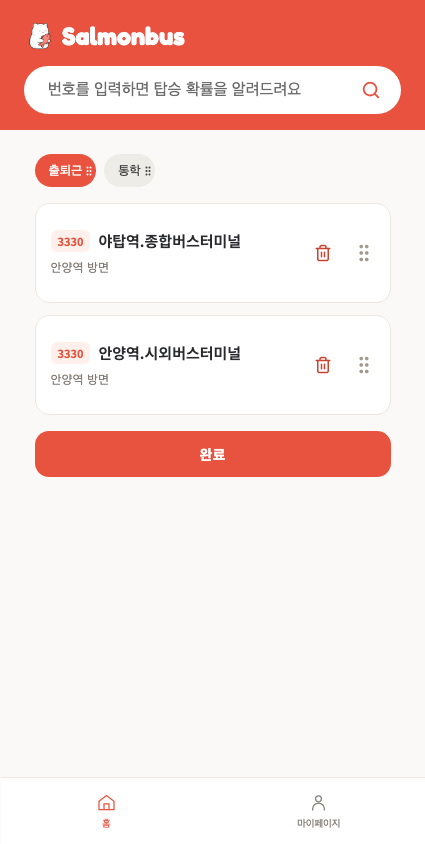
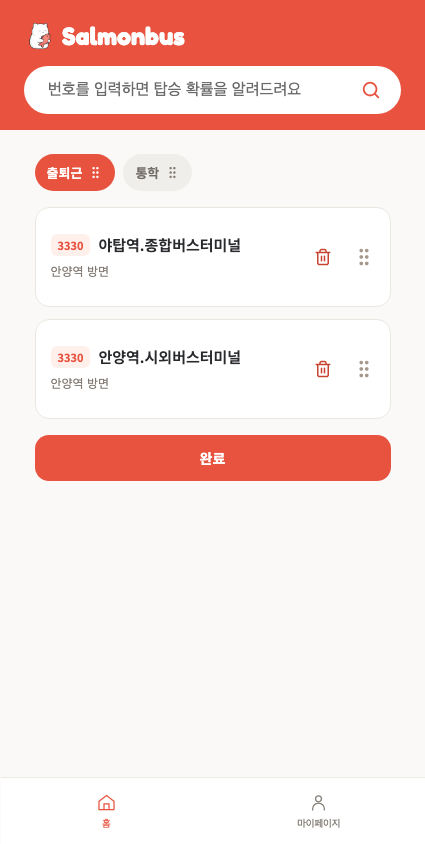
fix(SAL-249): 그룹 편집 탭을 SRksD 시안 크기로 정리

diff --git a/frontend/e2e/favorite-editor.spec.ts b/frontend/e2e/favorite-editor.spec.ts
@@ -294,6 +294,8 @@ for (const width of [320, 425]) {
       const button = editor.getByRole("button", { name: tab.name, exact: true });
       const group = button.locator("..");
       const box = (await group.boundingBox())!;
+      expect(box.height).toBe(37);
+      expect(box.width).toBeCloseTo(tab.name === "출퇴근" ? 81 : 69, 0);
       for (const key of ["x", "y", "width", "height"] as const) expect(box[key]).toBeCloseTo(tab[key], 1);
       await expect(group).toHaveCSS("background-color", tab.background);
       const handle = group.getByRole("button", { name: `${tab.name} 순서 변경`, exact: true });
@@ -303,7 +305,9 @@ for (const width of [320, 425]) {
         range.selectNodeContents(element);
         return range.getBoundingClientRect().right;
       });
-      expect(grip.x - textRight).toBeGreaterThanOrEqual(3.9);
+      expect(grip.x - textRight).toBeCloseTo(6, 1);
+      expect(grip.width).toBe(15);
+      expect(box.x + box.width - grip.x - grip.width).toBeCloseTo(12, 1);
       expect(grip.x).toBeGreaterThan(box.x + box.width / 2);
       expect(grip.x + grip.width).toBeLessThanOrEqual(box.x + box.width);
     }
@@ -317,5 +321,6 @@ for (const width of [320, 425]) {
     await expect(card).toHaveCSS("outline", surface.outline);
     await expect(card).toHaveCSS("outline-offset", surface.offset);
     await expect(card).toHaveCSS("background-color", surface.background);
+    if (width === 425) await page.screenshot({ path: `/private/tmp/salmonbus-srksd-${test.info().project.name}.png` });
   });
 }

diff --git a/frontend/src/shared/components/favorite-editor/SortableList.css.ts b/frontend/src/shared/components/favorite-editor/SortableList.css.ts
@@ -5,7 +5,7 @@ import { outlinedCard } from "@/shared/styles/surface.css";
 import { vars } from "@/shared/styles/tokens.css";
 
 const list = style({ display: "flex", gap: 12, margin: 0, padding: 0, listStyle: "none" });
-export const groups = style([list, { gap: 8, minHeight: 32, alignItems: "center" }]);
+export const groups = style([list, { gap: 8, minHeight: 37, alignItems: "center" }]);
 export const cards = style([list, { flexDirection: "column" }]);
 const item = style({
   position: "relative",
@@ -20,9 +20,10 @@ export const group = style([
   {
     display: "flex",
     alignItems: "center",
-    padding: 0,
+    padding: "0 12px",
+    gap: 6,
     selectors: {
-      '&:has([aria-pressed="true"])': { background: vars.color.brand, color: "white" },
+      '&:has([aria-pressed="true"])': { background: vars.color.liveBus, color: "white" },
     },
   },
 ]);
@@ -65,13 +66,13 @@ export const grip = style({
 export const groupGrip = style([
   grip,
   {
-    position: "absolute",
-    right: 0,
-    top: 0,
-    width: 14,
-    height: "100%",
-    color: "inherit",
-    selectors: { "&::before": { width: 12, height: 12 } },
+    width: 15,
+    height: 37,
+    color: "#837B74",
+    selectors: {
+      "&::before": { width: 15, height: 15 },
+      '[aria-pressed="true"] + &': { color: "white" },
+    },
   },
 ]);
 globalStyle(`${list}[data-sorting="true"] > li:not([data-dragging="true"])`, {

diff --git a/frontend/src/shared/styles/selection.css.ts b/frontend/src/shared/styles/selection.css.ts
@@ -1,14 +1,13 @@
 import { style } from "@vanilla-extract/css";
-import { vars } from "./tokens.css";
 
 export const pill = style({
   border: 0,
   borderRadius: 20,
-  padding: "8px 18px",
-  background: "#EEECE7",
-  color: vars.color.textBody,
-  fontFamily: "-apple-system, BlinkMacSystemFont, 'Segoe UI', sans-serif",
+  padding: "9px 12px",
+  background: "#EFEEEA",
+  color: "#706B66",
+  fontFamily: "'Noto Sans KR', sans-serif",
   fontSize: 13,
-  fontWeight: 400,
-  lineHeight: "normal",
+  fontWeight: 600,
+  lineHeight: "19px",
 });

diff --git a/frontend/src/pages/route-select/components/HomeFavorites.css.ts b/frontend/src/pages/route-select/components/HomeFavorites.css.ts
@@ -119,8 +119,9 @@ export const tabs = style({ display: "flex", alignItems: "center", gap: 8, margi
 export const tab = style([
   pill,
   {
+    paddingRight: 33,
     cursor: "pointer",
-    selectors: { '&[aria-selected="true"]': { background: vars.color.brand, color: "white" } },
+    selectors: { '&[aria-selected="true"]': { background: vars.color.liveBus, color: "white" } },
   },
 ]);
 export const homeEdit = style([

diff --git a/frontend/src/shared/components/favorite-editor/FavoriteEditor.css.ts b/frontend/src/shared/components/favorite-editor/FavoriteEditor.css.ts
@@ -13,10 +13,10 @@ export const editor = style({
 });
 export const groupName = style({
   minWidth: 0,
-  padding: "8px 18px",
+  padding: "9px 0",
   border: 0,
   background: "transparent",
-  color: "inherit",
+  color: "#706B66",
   selectors: { '&[aria-pressed="true"]': { color: "white" } },
   font: "inherit",
   fontSize: 13,
